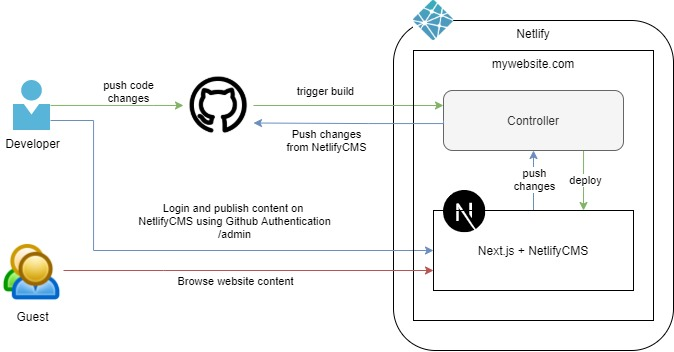
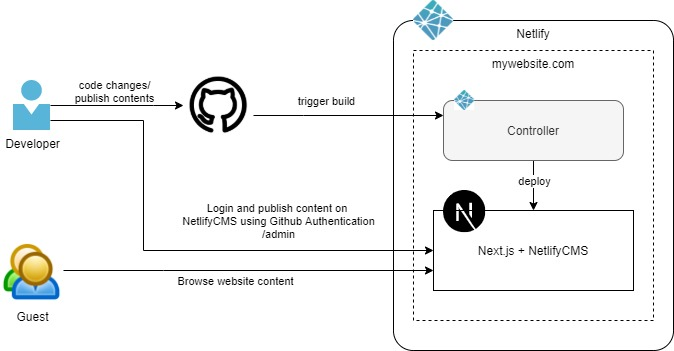
first blog post

diff --git a/src/components/Post/PostExcerpt.tsx b/src/components/Post/PostExcerpt.tsx
@@ -24,14 +24,15 @@ const ArticleCard = styled.article`
   }
 
   .cover-image {
+    display: flex;
+    justify-content: center;
     background-color: ${(props) => props.theme.primaryColor};
     overflow: hidden;
     padding: 0;
     width: 100%;
-    height: 200px;
     > img {
-      max-width: 100%;
-      height: auto;
+      width: auto;
+      height: 200px;
     }
   }
 

diff --git a/src/components/Markdown/Strong.tsx b/src/components/Markdown/Strong.tsx
@@ -1,5 +1,10 @@
 import styled from 'styled-components'
 
-const Strong = styled.strong``
+const Strong = styled.strong`
+  padding-left: 2px;
+  padding-right: 2px;
+  background-color: ${(props) => props.theme.tertiaryYellowColor};
+  color: ${(props) => props.theme.tertiaryYellowColorContrast};
+`
 
 export default Strong

diff --git a/src/components/Markdown/Link.tsx b/src/components/Markdown/Link.tsx
@@ -1,8 +1,8 @@
 import styled from 'styled-components'
 
 const Link = styled.a`
-  text-decoration: none;
-  color: ${(props) => props.theme.tertiaryYellowColor};
+  font-weight: 500;
+  color: ${(props) => props.theme.tertiaryBlueColor};
 `
 
 export default Link

diff --git a/src/components/Post/PostHeader.tsx b/src/components/Post/PostHeader.tsx
@@ -18,7 +18,7 @@ const Header = styled.header`
   .header-cover {
     display: flex;
     justify-content: center;
-    max-height: 320px;
+    height: 320px;
     width: auto;
     > img {
       max-width: 100%;

diff --git a/src/components/Markdown/InlineCode.tsx b/src/components/Markdown/InlineCode.tsx
@@ -1,5 +1,7 @@
 import styled from 'styled-components'
 
-const InlineCode = styled.code``
+const InlineCode = styled.code`
+  color: ${(props) => props.theme.tertiaryYellowColor};
+`
 
 export default InlineCode

diff --git a/src/components/Markdown/Emphasis.tsx b/src/components/Markdown/Emphasis.tsx
@@ -1,5 +1,7 @@
 import styled from 'styled-components'
 
-const Emphasis = styled.em``
+const Emphasis = styled.em`
+  color: ${(props) => props.theme.tertiaryYellowColor};
+`
 
 export default Emphasis

diff --git a/src/components/Markdown/Image.tsx b/src/components/Markdown/Image.tsx
@@ -1,5 +1,7 @@
 import styled from 'styled-components'
 
-const Image = styled.img``
+const Image = styled.img`
+  max-width: 100%;
+`
 
 export default Image

diff --git a/src/contents/posts/creating-my-nextjs-blog-with-netlify-cms.md b/src/contents/posts/creating-my-nextjs-blog-with-netlify-cms.md
@@ -1,0 +1,279 @@
+---
+title: Creating my Next.js Blog with Netlify CMS
+excerpt: Here I would show you the steps on how I created my Next.js Blog website integrated with Netlify CMS.
+date: 2021-04-10T13:08:45.423Z
+author:
+  name: Brian Punzalan
+ogImage:
+  url: /assets/blog1-image.jpg
+coverImage: /assets/blog1-image.jpg
+content: |-
+  ## Introduction
+
+  I have just recently recreate my website on [Next.js](https://nextjs.org/) from [Gatsby](https://www.gatsbyjs.org/) due to personal preference. Next.js like Gatsby could be used as a static-site generator for React although it's much more popular as SSR framework for React (or you could leverage both at the same time!).
+
+  In this post, I will show you how I created my blog website using Next.js integrated with Netlify CMS.
+
+  ## Overview
+
+  Firstly, we need to understand the stack and the flow of communication between components. For this, I prepared a diagram for easy consumption.
+  
+  ![mywebsite-stack.jpg](/assets/mywebsite-stack.jpg "Next.js + Netlify")
+
+  Github would trigger the build on Netlify whenever there are changes on your specified branch, e.g *master*. 
+  Netlify would then execute your specified build command and deploy the output directory to be hosted as a static website.
+  As you could see, Netlify already provides you the convenience of automatic deployment without any other tools needed, you just need to grant them authorization to your Github repository.
+
+  Now, let's talk about our application. Since its a blog website, we need to have a way of managing our blog posts.
+  With this we will use Netlify CMS, an open source CMS tool that provides us the interface for managing contents. 
+  This tool does not have any database or backend where you can store your content just like any other CMS out there.
+  It just provides you a user interface to manage content with added functionality of customizing your own content types.
+
+  You may be wondering on how are we going to persist our content if we do not have any database.
+
+  The answer is **"Markdown"**.
+
+  Markdown files are just text files with specified format that could be parsed and transformed into any other object type.
+  These files would serve as medium for our contents.
+
+  Remember that our application will be built staticly, meaning we do not have any web server backend that could handle dynamic resource request. 
+  The whole website was prebuilt into HTML files before serving to the internet.
+  If our application was prebuilt, therefore the contents of our website was also prebuilt.
+  This would imply that our content was prefetched or included in the source code during build time.
+
+  Now, what Netlify CMS allows us to do is to have a possiblity to manage content and transform it into Markdown files.
+  It would also automatically create a commit to our Git repository since any content changes will also be considered 
+  as a code change due to the nature of our stack. 
+  
+  Our repository would serve as the persistence layer for our content with Markdown files as the medium.
+  
+  All of these tools perfectly fits our requirement of having a blog website with no backend maintenance even though we kinda have *"dynamic"* content.
+  Also with the added benefit of static websites for being fast, secure and virtually no cost to maintain.
+
+  ---
+
+  ## Let's talk about some code!
+
+  For starters, we need to understand Next.js APIs since we are going to use it to build static content.
+
+  Next.js have a *file-system based routing*. In the root directory of your project, the **page** folder would contain all pages for your application.
+
+  Each `pages` could export utility functions **getStaticProps** and **getServerSideProps**.
+
+  `getServerSideProps` are being used for server-side rendering, using it would opt-out to Automatic Static Optimization feature of Next.js.
+  For our use case, we will use `getStaticProps` to build static pages with prefetched data from our CMS.
+
+  ### `getStaticProps`
+
+  This function could be used to fetch data at build-time and generate HTML pages. For dynamic pages, we need to use `getStaticProps` with `getStaticPaths` to explicitly specify the list of paths that have to be rendered to HTML at build-time. `getStaticPaths` function should also be exported in the `page`.
+
+  Assuming that you have a dynamic blog post page at `pages/posts/[slug].jsx`.
+
+  Here is a sample code on how these functions could be used to generate static blog post pages.
+  ```js
+  // pages/posts/[slug].jsx
+  import React from 'react';
+  import getPostBySlug from './api/getPostBySlug';
+  import getAllPosts from './api/getAllPosts';
+
+  // Blog Post Page Component
+  const PostPage = (props) => {
+    const { post } = props;
+    const { title, author, content } = post;
+
+    return (
+      <div>
+        <span>{title}</span>
+        <span>{author}</span>
+        <p>{content}</p>
+      </div>
+    )
+  };
+
+  // compile paths for each post with params object containing the post slug.
+  // note that in `[slug].jsx`, the `slug` key was defined to be read in the params object.  
+  export const getStaticPaths = async () => {
+    // fetch all posts
+    const posts = getAllPosts();
+
+    const postsPaths = posts.map((post) => ({
+      params: {
+        slug: posts.slug,
+      },
+    }));
+
+    return {
+      paths: postsPaths,
+      fallback: false,
+    };
+  };
+
+  // For each post context, map its contents to the blog post component
+  export const getStaticProps = async (ctx) => {
+    const { params } = ctx
+
+    // fetch post content by its slug
+    const post = getPostBySlug(params.slug);
+
+    return {
+      props: {
+        post: {
+          title: post.title,
+          author: post.author,
+          content: post.content,
+        },
+      },
+    }
+  };
+
+  export default PostPage;
+  ```
+
+  For the functions `getPostBySlug` and `getAllPosts`, we read content files from e.g `contents/posts` in order to transform it with `gray-matter` to convert contents of the markdown file into JSON data.
+
+  ```js
+  import fs from 'fs'
+  import { join } from 'path'
+  import matter from 'gray-matter'
+
+  const postsDirectory = join(process.cwd(), 'contents/posts')
+
+  export const getPostSlugs = () => {
+    return fs.readdirSync(postsDirectory)
+  }
+
+  export const getPostBySlug = (slug, fields = []) => {
+    const realSlug = slug.replace(/\.md$/, '')
+    const fullPath = join(postsDirectory, `${realSlug}.md`)
+    const fileContents = fs.readFileSync(fullPath, 'utf8')
+
+    // This is the output data after parsing the markdown file contents.
+    const { data, content } = matter(fileContents)
+
+    const items = {}
+
+    // Ensure only the minimal needed data is exposed
+    fields.forEach((field) => {
+      if (field === 'slug') {
+        items[field] = realSlug
+      }
+      if (field === 'content') {
+        items[field] = content
+      }
+
+      if (data[field]) {
+        items[field] = data[field]
+      }
+    })
+
+    return items
+  }
+
+  export const getAllPosts = (fields = []) => {
+    const slugs = getPostSlugs()
+    const posts = slugs
+      .map((slug) => getPostBySlug(slug, fields))
+      // sort posts by date in descending order
+      .sort((post1, post2) => (post1.date > post2.date ? -1 : 1))
+
+    return posts
+  }
+  ```
+
+  ### Markdown
+
+  Here is a sample markdown content which contains `data` and `content`. The `data` corresponds to the upper section of the file while the `content` corresponds in the bottom section.
+  ```md
+  ---
+  title: Hello World
+  author: John Doe
+  ---
+  # Hello World
+  This is markdown string content.
+  ```
+
+  The `content` is the string that is still in markdown format. We need to parse this `content` into HTML format string so that we could 
+  render it and inject styling.
+
+  We could use `react-markdown`. We just need to pass the `content` as props in the component and it would already parsed it into HTML and renders it. What so good about this is that you could actually extend and override the styling for some HTML components.
+
+  ### Integrating Netlify CMS into codebase
+  
+  Netlify CMS only requires us to expose certain files publicly.
+  - `public/admin/config.yml`
+  - `public/admin/index.html`
+
+  For more information you could check this [link](https://www.netlifycms.org/docs/add-to-your-site/#app-file-structure)
+
+  The `config.yml` is where we configure the CMS. These includes the widgets, content types, media folders, backend information, etc.
+
+  For our use case, we will follow the [Github](https://www.netlifycms.org/docs/github-backend/) integration process since its free to use and very common.
+
+  Here is a sample `config.yml`.
+  ```yaml
+  backend:
+    name: github
+    repo: owner/my-website
+    branch: master
+    commit_messages:
+      create: Create {{collection}} “{{slug}}”
+      update: Update {{collection}} “{{slug}}”
+      delete: Delete {{collection}} “{{slug}}”
+      uploadMedia: Upload “{{path}}”
+      deleteMedia: Delete “{{path}}”
+      openAuthoring: '{{message}}'
+  media_folder: public/assets
+  public_folder: public
+  collections:
+    - name: "blog-post"
+      label: "Blog Posts"
+      create: true
+      folder: /contents/posts
+      fields:
+        - label: "Title"
+          name: "title"
+          widget: "string"
+        - label: "Author"
+          name: "author"
+          widget: "string"
+        - label: "Content"
+          name: "content"
+          widget: "markdown"
+  ```
+  As you could see, the configuration is very intuitive. Looking at the configuration, we know that we are using github as backend with specified repository and branch. The repository and branch specified would represent the website source code and any changes that will occur would trigger a build in Netlify.
+
+  `collections` are the content types of the CMS which in our case were the blog posts. Each content types has its own `fields` and each `field` should have a `widget` that would also determine its data type. It also specified the source folder of the markdown files where it stores the created blog posts data.
+
+  After the configuration, the codebase should be ready.
+
+  ## Create Site in Netlify
+
+  First, you need to have a Netlify account to be able to create site.
+
+  Connect your repository hosted on Github and configure the site settings. Make sure to specify the branch e.g *master*, build command and the output directory of the build where Netlify will serve the contents of the website.
+
+  Once you have created your site, it would automatically pull the source code and starts the build. Once the build is finished, the site is now live.
+
+  ### Note:
+
+  In order for us to authenticate into our CMS, we need to add Github as OAuth2 authentication provider by supplying `Client ID` and `Client Secret` to our Netlify Site. You could follow the steps provided on [here](https://docs.netlify.com/visitor-access/oauth-provider-tokens/).
+
+  ## Accessing Netlify CMS
+
+  We could access the CMS through this route `/admin/index.html` but it would require us to authenticate first on Github before we could proceed.
+
+  Once logged in, it would look something like this.
+
+  ![netlify-cms-snapshot.jpg](/assets/netlify-cms-snap.jpg "Netlify CMS - Dashboard")
+
+  We can create, update, delete blog posts. We could also attach media files that we could later use for our blog posts. Any changes would automatically push a commit to our Github, thus trigger a build in Netlify, redeploying our website with new changes/contents.
+
+  # Congratulations!
+
+  We have finally created our Next.js website utilizing Netlify CMS and Github with the added benefits of static websites. 
+  
+  The stack follows the concept of **Jamstack**. If you want to learn more, check out its website at [https://jamstack.org/](https://jamstack.org/).
+  
+  You could view the full source code of my website on my [Github](https://github.com/brianpunzalan/my-website).
+
+---

diff --git a/README.md b/README.md
@@ -1,27 +1,5 @@
-# NextJS Typescript Boilerplate
+# My Personal Website
 
-Bootstrap a developer-friendly NextJS app configured with:
+Here lies the source code of my website that could be found on below link.
 
-- [Typescript](https://www.typescriptlang.org/)
-- Linting with [ESLint](https://eslint.org/)
-- Formatting with [Prettier](https://prettier.io/)
-- Linting, typechecking and formatting on by default using [`husky`](https://github.com/typicode/husky) for commit hooks
-- Testing with [Jest](https://jestjs.io/) and [`react-testing-library`](https://testing-library.com/docs/react-testing-library/intro)
-
-## Deploy your own
-
-Deploy the example using [Vercel](https://vercel.com?utm_source=github&utm_medium=readme&utm_campaign=next-example):
-
-[![Deploy with Vercel](https://vercel.com/button)](https://vercel.com/new/git/external?repository-url=https://github.com/vercel/next.js/tree/canary/examples/with-typescript-eslint-jest&project-name=with-typescript-eslint-jest&repository-name=with-typescript-eslint-jest)
-
-## How to use
-
-Execute [`create-next-app`](https://github.com/vercel/next.js/tree/canary/packages/create-next-app) with [npm](https://docs.npmjs.com/cli/init) or [Yarn](https://yarnpkg.com/lang/en/docs/cli/create/) to bootstrap the example:
-
-```bash
-npx create-next-app --example with-typescript-eslint-jest with-typescript-eslint-jest-app
-# or
-yarn create next-app --example with-typescript-eslint-jest with-typescript-eslint-jest-app
-```
-
-Deploy it to the cloud with [Vercel](https://vercel.com/new?utm_source=github&utm_medium=readme&utm_campaign=next-example) ([Documentation](https://nextjs.org/docs/deployment)).
+[https://brianpunzalan.com](https://brianpunzalan.com)
